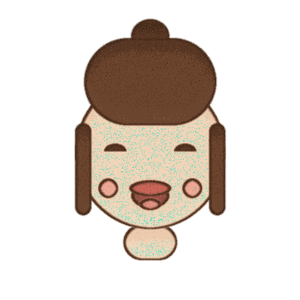
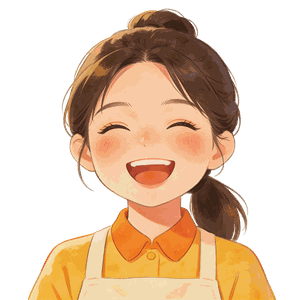
feat: 小柒表情帧正式图（剪映生图）+ 出图脚本文档化
- char-xiaoqi-idle/say/happy 三帧用剪映生图链路（D:\ai-media-agent\backend\tools  gen_restaurant_art.py，生图+抠图）替换程序占位图，300×300 已量化压缩至 ~20KB
- docs/ai-art-prompts.md 出图流程新增第 0 步：批量出图脚本路径与用法
- ART-MANIFEST.md 补表情帧三个 key 条目，P0 数量 22→25

diff --git a/docs/ai-art-prompts.md b/docs/ai-art-prompts.md
@@ -6,6 +6,28 @@
 
 ## 出图流程（从生成到入库 6 步）
 
+0. **批量出图脚本（推荐，历史图片均由此产出）**：剪映生图链路（生图 + 自动抠图），
+   脚本在 **`D:\ai-media-agent\backend\tools\gen_restaurant_art.py`**
+   （临时工具，不在本仓库内；生图/抠图 HTTP 封装在同仓库
+   `backend/core/jianying_gen.py`）。脚本内 `ITEMS` 已含本项目全部 key 及
+   完整中文提示词（含小柒表情帧 `char-xiaoqi-idle/say/happy`），生成后自动
+   裁剪到目标尺寸并直接写入本项目 `assets/resources/art/`。
+   用法（Git Bash，从 `D:\ai-media-agent` 运行，需先清代理）：
+
+   ```bash
+   cd /d/ai-media-agent
+   unset HTTP_PROXY HTTPS_PROXY ALL_PROXY http_proxy https_proxy all_proxy
+   C:/Python314/python.exe backend/tools/gen_restaurant_art.py --list p0                  # P0 全部
+   C:/Python314/python.exe backend/tools/gen_restaurant_art.py --list full               # 全量
+   C:/Python314/python.exe backend/tools/gen_restaurant_art.py --keys char-xiaoqi-happy  # 单独重出某张
+   C:/Python314/python.exe backend/tools/gen_restaurant_art.py --keys xxx --skip-existing
+   ```
+
+   注意：剪映接口不支持固定 seed，同一 key 重出结果会有差异；人物类 key
+   （char-xiaoqi 及三张表情帧）共用同一形象描述词，单帧不满意可单独重出覆盖；
+   需要剪映登录 cookie（脚本经 `core/jianying_http.load_cookie` 读取，此前跑通即已配置）。
+   出完记得对 >50KB 的图执行第 5 步压缩。
+
 1. **生成**：任选支持透明背景的 AI 出图工具（即梦、Recraft、Firefly 等；
    不支持透明的先出纯白/纯灰底，再用 remove.bg / Photoshop「删除背景」抠成透明）。
    提示词 = 本文各条目提示词，前拼「统一风格前缀」；尺寸按下方规格表（出图尺寸 = 显示尺寸 ×2）。

diff --git a/ART-MANIFEST.md b/ART-MANIFEST.md
@@ -3,7 +3,8 @@
 为「暖柒餐厅」生成美术资源时的清单与提示词模板。**把每张 PNG 按 key 命名为 `<key>.png`，放入 `assets/resources/art/` 目录即可替换占位图，无需改动任何代码。**
 
 > 出图到入库的完整操作流程（生成 → 透明化 → 入库 → 验证 → 压缩 → 编辑器检查）
-> 见 `docs/ai-art-prompts.md` 的「出图流程」一节。
+> 见 `docs/ai-art-prompts.md` 的「出图流程」一节；
+> 批量出图脚本（剪映链路，全部历史图片的实际来源）的路径与用法也在该节第 0 步。
 
 ## 规格
 
@@ -15,7 +16,7 @@
 - 统一氛围：奶油米 `#F7E8D7` + 暖橙 `#FF8A5C` + 蜂蜜黄 `#FFC94D` 配色，柔光光影
 - 尺寸 = 下表「出图尺寸(2×)」，可直接覆盖同名占位图
 
-## P0 核心（22 张）
+## P0 核心（25 张，含小柒表情帧 ×3；表情帧已于 2026-09 用剪映链路出正式图）
 
 | key | 内容 | 显示尺寸 | 出图尺寸(2×) |
 |---|---|---|---|
@@ -27,6 +28,9 @@
 | `cust-5` | 顾客：学生 | 160×220 | 320×440 |
 | `cust-6` | 顾客：情侣 / 朋友 | 160×220 | 320×440 |
 | `char-xiaoqi` | 老板娘小柒头像 | 150×150 | 300×300 |
+| `char-xiaoqi-idle` | 小柒表情帧：平静微笑（直播聊天待机） | 120×120 | 300×300 |
+| `char-xiaoqi-say` | 小柒表情帧：张嘴说话（回复/语音中） | 120×120 | 300×300 |
+| `char-xiaoqi-happy` | 小柒表情帧：开心大笑（正向情绪） | 120×120 | 300×300 |
 | `char-tangtang` | 女儿糖糖头像 | 150×150 | 300×300 |
 | `char-laozhou` | 熟客老周头像 | 150×150 | 300×300 |
 | `char-ashen` | 阿婶头像 | 150×150 | 300×300 |
